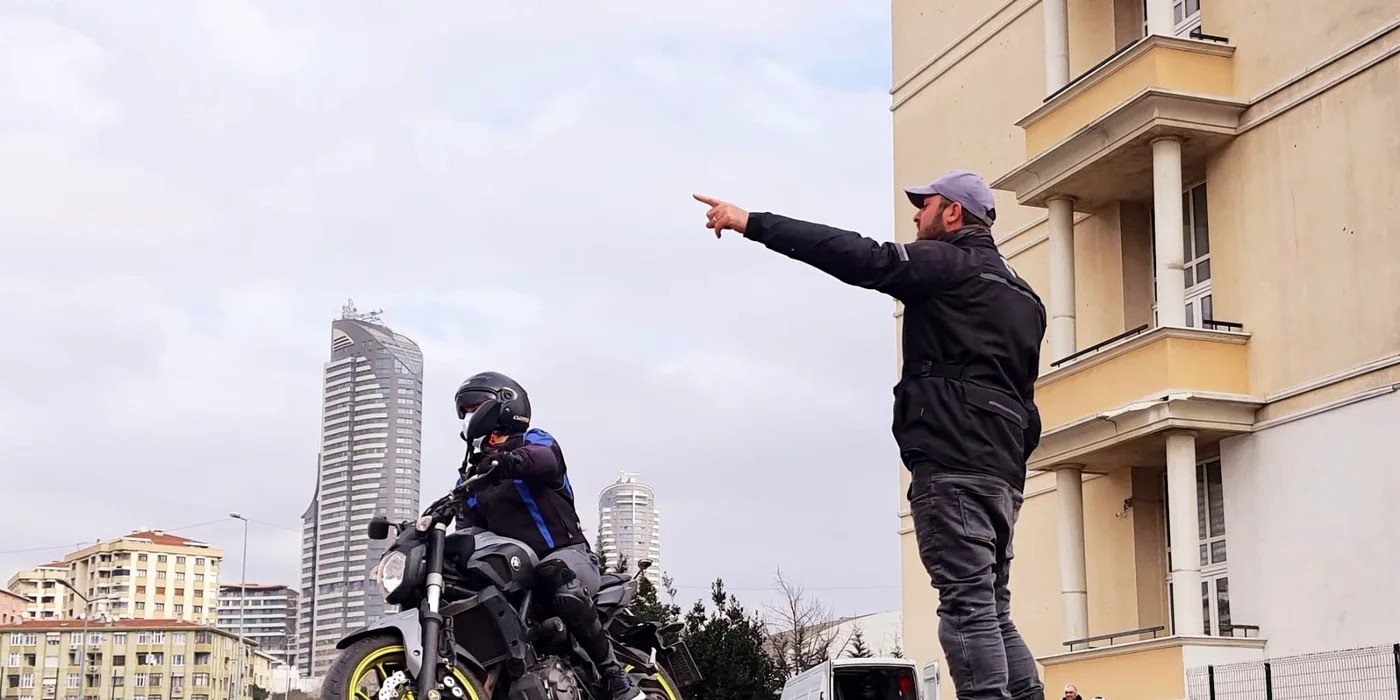
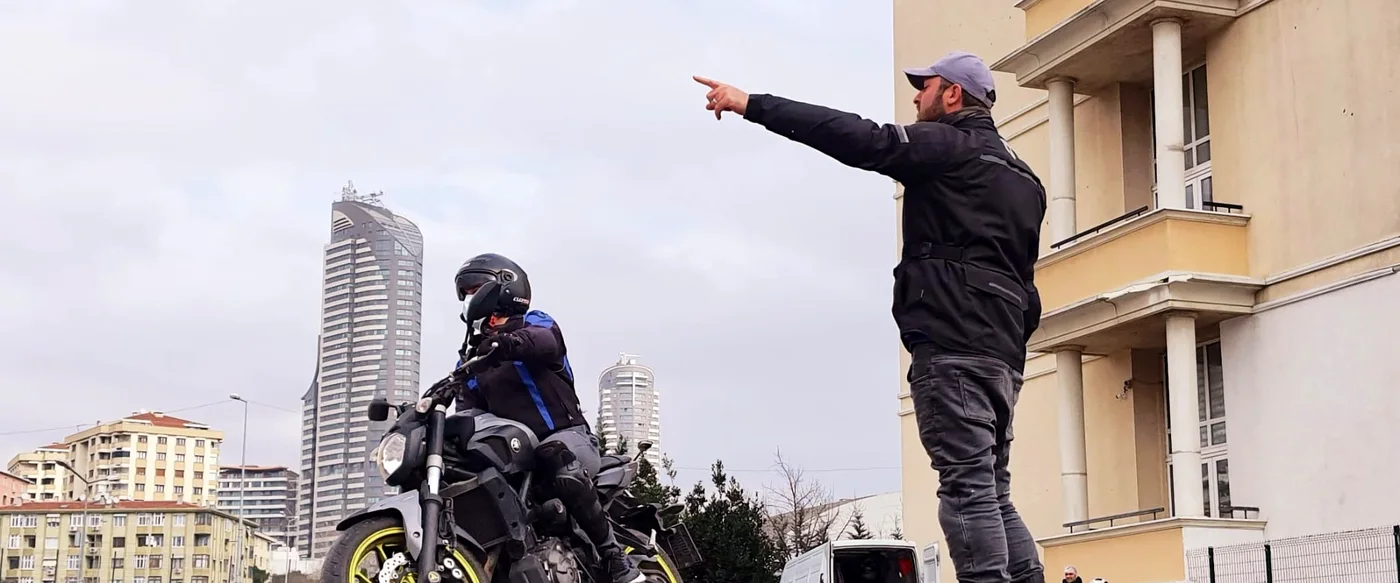
Galeri kirpim duzeltmeleri: genis karoda ogrenci+hoca tam kadraj, bayrakli karede yuzler ve motorlar

diff --git a/css/style.css b/css/style.css
@@ -482,6 +482,8 @@ a { color: inherit; text-decoration: none; }
 .gallery__item:hover img { transform: scale(1.07); }
 .gallery__item--tall { grid-row: span 2; }
 .gallery__item--wide { grid-column: span 2; }
+.gallery__item--wide img { object-position: center 32%; }
+.gallery__item:nth-child(4) img { object-position: center 18%; }
 .gallery__item.is-placeholder::after {
   content: "📷";
   position: absolute;